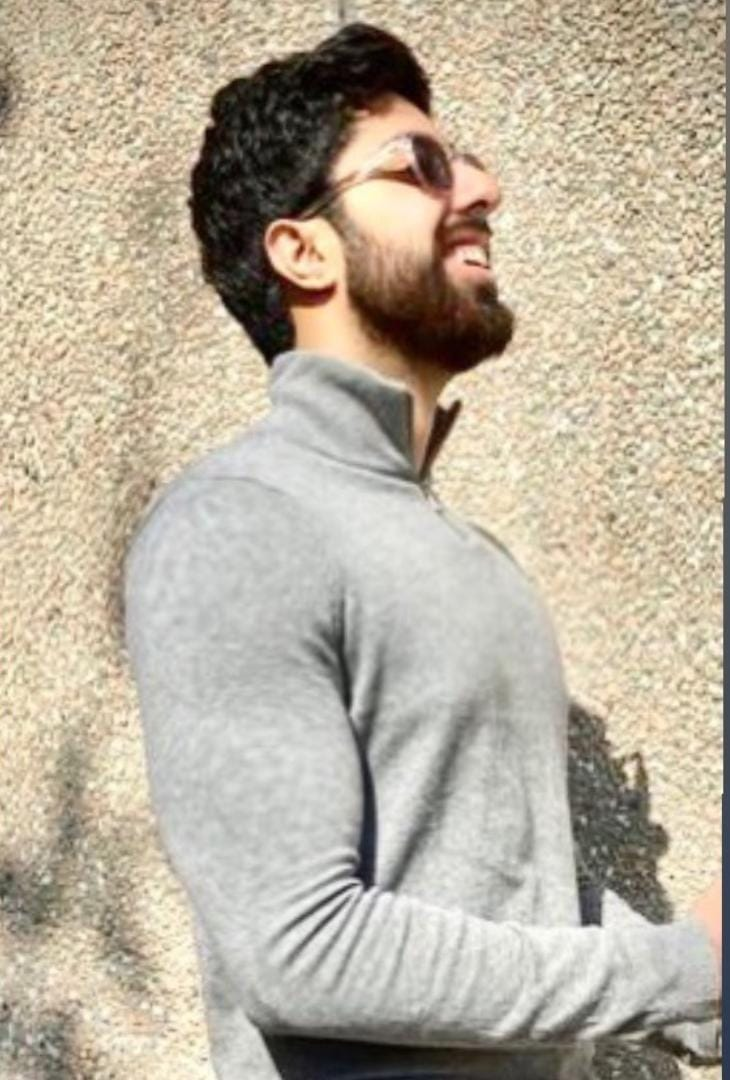
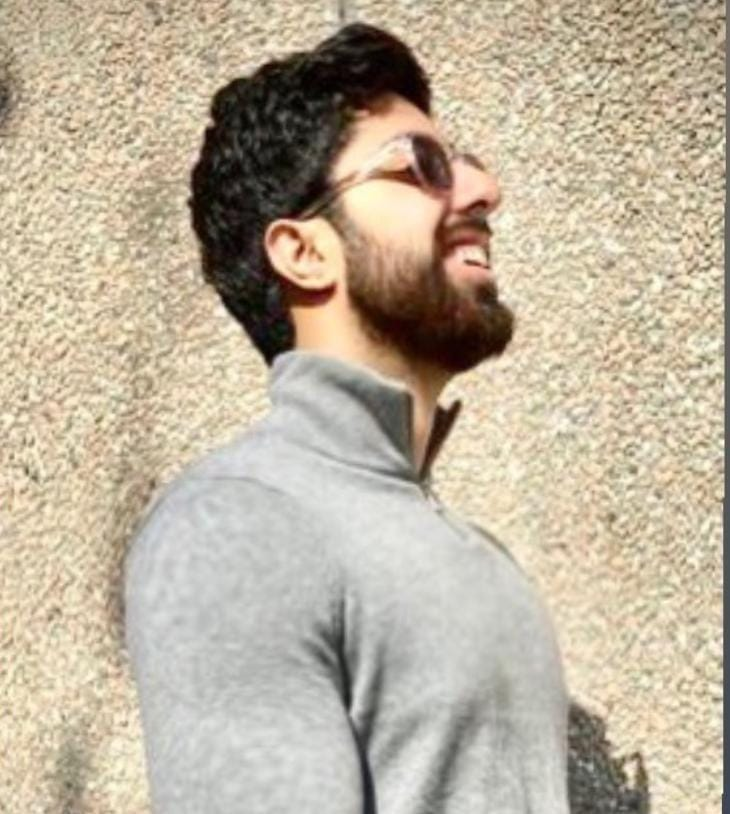
better image

diff --git a/src/components/our-team.js b/src/components/our-team.js
@@ -10,7 +10,7 @@ export default function Team () {
     <div class="flex flex-wrap -m-4">
       <div class="p-4 lg:w-1/2">
         <div class="h-full flex sm:flex-row flex-col items-center sm:justify-start justify-center text-center sm:text-left">
-          <img alt="team" class="flex-shrink-0 rounded-lg w-48 h-48 object-cover object-center sm:mb-0 mb-4" src="https://dummyimage.com/200x200"/>
+          <img alt="team" class="flex-shrink-0 rounded-lg w-48 h-48 object-cover object-center sm:mb-0 mb-4" src="https://raw.githubusercontent.com/KDwevedi/btp/main/src/assets/Dhruv.jpeg"/>
           <div class="flex-grow sm:pl-8">
             <h2 class="title-font font-medium text-lg text-gray-900">Dhruv Atreja</h2>
             <h3 class="text-gray-500 mb-3">Software Engineer</h3>
@@ -37,7 +37,7 @@ export default function Team () {
       </div>
       <div class="p-4 lg:w-1/2">
         <div class="h-full flex sm:flex-row flex-col items-center sm:justify-start justify-center text-center sm:text-left">
-          <img alt="team" class="flex-shrink-0 rounded-lg w-48 h-48 object-cover object-center sm:mb-0 mb-4" src="https://dummyimage.com/201x201"/>
+          <img alt="team" class="flex-shrink-0 rounded-lg w-48 h-48 object-cover object-center sm:mb-0 mb-4" src="https://raw.githubusercontent.com/KDwevedi/btp/main/src/assets/Shreya.jpeg"/>
           <div class="flex-grow sm:pl-8">
             <h2 class="title-font font-medium text-lg text-gray-900">Shreya Saini</h2>
             <h3 class="text-gray-500 mb-3">Software Engineer</h3>
@@ -64,7 +64,7 @@ export default function Team () {
       </div>
       <div class="p-4 lg:w-1/2">
         <div class="h-full flex sm:flex-row flex-col items-center sm:justify-start justify-center text-center sm:text-left">
-          <img alt="team" class="flex-shrink-0 rounded-lg w-48 h-48 object-cover object-center sm:mb-0 mb-4" src="https://dummyimage.com/204x204"/>
+          <img alt="team" class="flex-shrink-0 rounded-lg w-48 h-48 object-cover object-center sm:mb-0 mb-4" src="https://raw.githubusercontent.com/KDwevedi/btp/main/src/assets/Manisha.jpeg"/>
           <div class="flex-grow sm:pl-8">
             <h2 class="title-font font-medium text-lg text-gray-900">Manisha Singh</h2>
             <h3 class="text-gray-500 mb-3">Software Engineer</h3>
@@ -91,7 +91,7 @@ export default function Team () {
       </div>
       <div class="p-4 lg:w-1/2">
         <div class="h-full flex sm:flex-row flex-col items-center sm:justify-start justify-center text-center sm:text-left">
-          <img alt="team" class="flex-shrink-0 rounded-lg w-48 h-48 object-cover object-center sm:mb-0 mb-4" src="https://dummyimage.com/206x206"/>
+          <img alt="team" class="flex-shrink-0 rounded-lg w-48 h-48 object-cover object-center sm:mb-0 mb-4" src="https://raw.githubusercontent.com/KDwevedi/btp/main/src/assets/Kanav.jpeg"/>
           <div class="flex-grow sm:pl-8">
             <h2 class="title-font font-medium text-lg text-gray-900">Kanav Dwevedi</h2>
             <h3 class="text-gray-500 mb-3">Software Engineer</h3>
